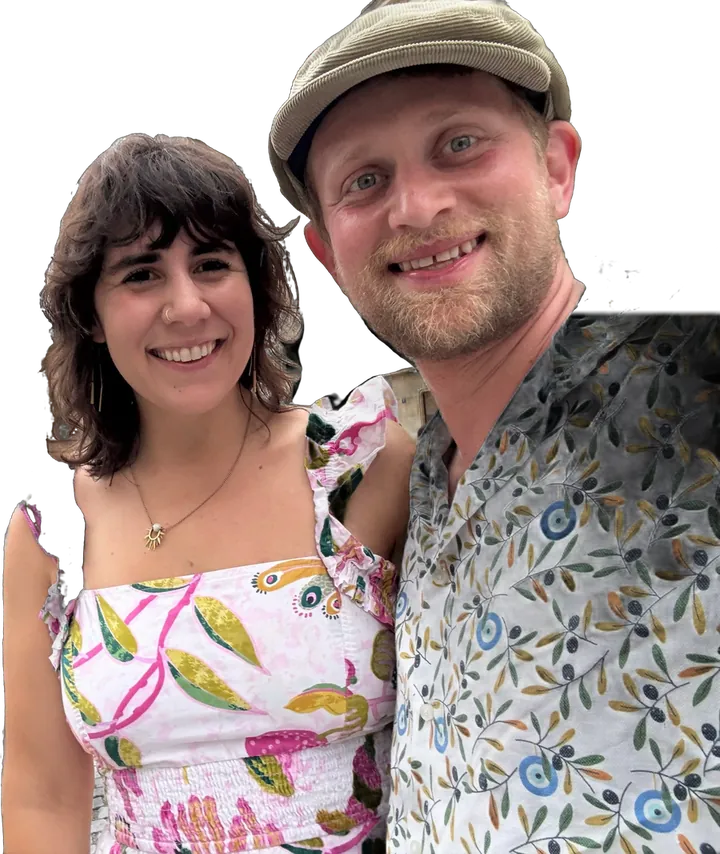
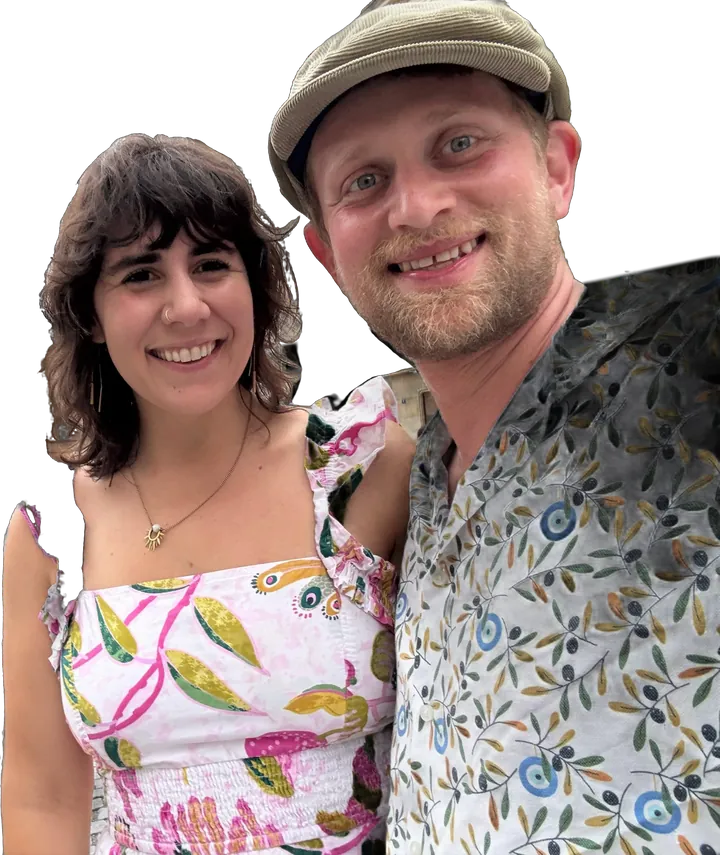
Publish site from e9f6638

diff --git a/about/index.html b/about/index.html
@@ -53,7 +53,7 @@
 </div>
 <main class="wrap">
 <div class="about-rows">
-  <section class="acct-row about-row" id="how" aria-labelledby="how-h"><div class="acct-row-art"><svg viewBox="0 0 400 260" aria-hidden="true" focusable="false"><defs><clipPath id="makers-clip"><rect width="400" height="260" rx="14"/></clipPath><linearGradient id="makers-fade" x1="0" x2="1" y1="0" y2="0"><stop offset="0" stop-color="#000"/><stop offset=".14" stop-color="#fff"/></linearGradient><mask id="makers-mask"><rect x="186" y="0" width="214" height="260" fill="url(#makers-fade)"/></mask></defs>
+  <section class="acct-row about-row" id="how" aria-labelledby="how-h"><div class="acct-row-art"><svg viewBox="0 0 400 260" aria-hidden="true" focusable="false"><defs><clipPath id="makers-clip"><rect width="400" height="260" rx="14"/></clipPath><linearGradient id="makers-fade" x1="0" x2="1" y1="0" y2="0"><stop offset="0" stop-color="#000"/><stop offset=".04" stop-color="#fff"/></linearGradient><mask id="makers-mask"><rect x="186" y="0" width="214" height="260" fill="url(#makers-fade)"/></mask></defs>
   <g clip-path="url(#makers-clip)">
   <rect width="400" height="260" fill="#C3E1FF"/>
   <circle cx="262" cy="46" r="16" fill="#F3C613"/><path d="M262 24v-7M262 68v-7M240 46h-7M284 46h-7M246 30l-5-5M278 62l-5-5M278 30l5-5M246 62l-5 5" stroke="#F3C613" stroke-width="3" stroke-linecap="round"/>
@@ -66,7 +66,7 @@
   <rect x="136" y="176" width="24" height="32" rx="2" fill="#0B2140"/>
   <rect x="0" y="206" width="400" height="54" fill="#D5E2F2"/><rect x="0" y="206" width="400" height="4" fill="#0B2140"/>
   <g transform="translate(40 207) scale(2.4)"><rect x="-9" y="-13" width="5" height="8" rx="2" fill="#F3C613"/><rect x="-5.5" y="-14" width="11" height="12" rx="3.5" fill="#6B3FA0"/><circle cx="0" cy="-18.5" r="4.6" fill="#F2C9A5"/><rect x="-4.5" y="-3" width="3.4" height="4" rx="1" fill="#0B2140"/><rect x="1.1" y="-3" width="3.4" height="4" rx="1" fill="#0B2140"/></g><g transform="translate(84 207) scale(2.4)"><rect x="-9" y="-13" width="5" height="8" rx="2" fill="#CC3000"/><rect x="-5.5" y="-14" width="11" height="12" rx="3.5" fill="#2C8444"/><circle cx="0" cy="-18.5" r="4.6" fill="#8D5524"/><rect x="-4.5" y="-3" width="3.4" height="4" rx="1" fill="#0B2140"/><rect x="1.1" y="-3" width="3.4" height="4" rx="1" fill="#0B2140"/></g><g transform="translate(128 207) scale(2.4)"><rect x="-9" y="-13" width="5" height="8" rx="2" fill="#1763B8"/><rect x="-5.5" y="-14" width="11" height="12" rx="3.5" fill="#CC3000"/><circle cx="0" cy="-18.5" r="4.6" fill="#E0AC69"/><rect x="-4.5" y="-3" width="3.4" height="4" rx="1" fill="#0B2140"/><rect x="1.1" y="-3" width="3.4" height="4" rx="1" fill="#0B2140"/></g>
-  <g class="pop" data-pop mask="url(#makers-mask)"><image href="../about-us.webp?v=97af59c9" x="186" y="6" width="214" height="254" preserveAspectRatio="xMaxYMax meet"/></g>
+  <g class="pop" data-pop mask="url(#makers-mask)"><image href="../about-us.webp?v=37054bda" x="186" y="6" width="214" height="254" preserveAspectRatio="xMaxYMax meet"/></g>
   </g></svg></div><div class="acct-row-text"><h2 id="how-h"><span data-copy="5b2fc57ac3" data-was="How listings are checked">We made this because we needed it</span></h2><p><span data-copy="42a9e2358a" data-was="Josh Silverbauer is a parent of two, with one enrolled in Nebinger. Navigating after-school programs was chaos for him, so he figured it was chaos for everyone else too. His wife Rachael told him to stop complaining and build something. So he built this site. He then showed Rachael and she said “Brilliant! But the copy sucks,” so he said stop complaining and write something, so she wrote this site.">Josh Silverbauer is a parent of two school-aged kids in South Philly. Navigating after-school programs was chaos for him, so he figured it was chaos for everyone else too. His wife Rachael told him to stop complaining and do something about it. So he built this site. He then showed Rachael and she said, “Brilliant! But the copy sucks.” He told her to stop complaining and do something about it, so she wrote these words.</span></p></div></section>
   <section class="acct-row about-row" id="what" aria-labelledby="what-h"><div class="acct-row-art"><svg viewBox="0 0 400 260" aria-hidden="true" focusable="false"><rect x="40" y="24" width="320" height="150" rx="16" class="art-frame"/>
   <rect x="62" y="46" width="170" height="14" rx="7" fill="#0B2140"/><rect x="62" y="72" width="240" height="9" rx="4.5" class="art-line"/>
